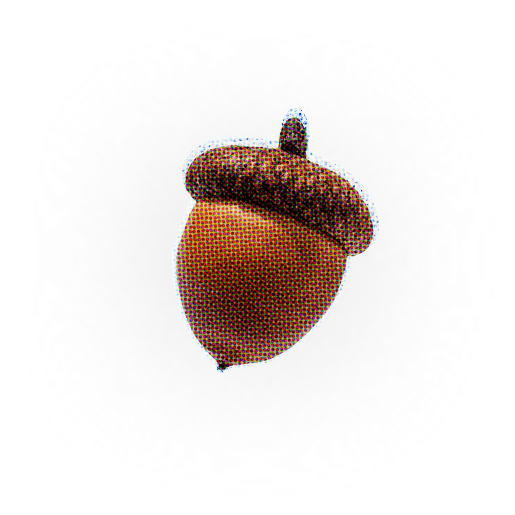
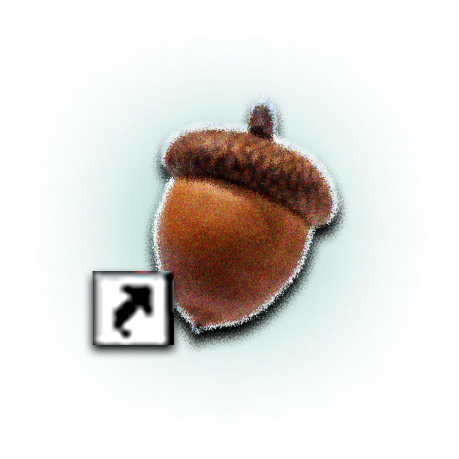
buttons n stars

Changed region(s): [[0.183, 0.2135, 0.7625, 0.793]]

diff --git a/src/components/Hero.tsx b/src/components/Hero.tsx
@@ -1,10 +1,65 @@
+"use client";
 import Image from "next/image";
+import { useEffect, useRef, useState } from "react";
+
+function SpinningStar({ src, alt, width, height, className }: {
+  src: string; alt: string; width: number; height: number; className?: string;
+}) {
+  const [rotation, setRotation] = useState(0);
+  const velocityRef = useRef(0);
+  const lastMouseRef = useRef<{ x: number; y: number } | null>(null);
+  const rafRef = useRef<number | null>(null);
+
+  useEffect(() => {
+    const handleMouseMove = (e: MouseEvent) => {
+      if (lastMouseRef.current) {
+        const dx = e.clientX - lastMouseRef.current.x;
+        const dy = e.clientY - lastMouseRef.current.y;
+        const speed = Math.sqrt(dx * dx + dy * dy);
+        const direction = dx > 0 ? 1 : -1;
+        velocityRef.current = direction * speed * 0.5;
+      }
+      lastMouseRef.current = { x: e.clientX, y: e.clientY };
+    };
+
+    window.addEventListener("mousemove", handleMouseMove);
+    return () => window.removeEventListener("mousemove", handleMouseMove);
+  }, []);
+
+  useEffect(() => {
+    const animate = () => {
+      velocityRef.current *= 0.95; // friction
+      setRotation(r => r + velocityRef.current);
+      rafRef.current = requestAnimationFrame(animate);
+    };
+    rafRef.current = requestAnimationFrame(animate);
+    return () => { if (rafRef.current) cancelAnimationFrame(rafRef.current); };
+  }, []);
+
+  return (
+    <Image
+      src={src}
+      alt={alt}
+      width={width}
+      height={height}
+      className={className}
+      style={{ transform: `rotate(${rotation}deg)` }}
+    />
+  );
+}
+const desktopIcons = [
+  { src: "/images/acorn.png", label: "Greenhouse", href: "#" },
+  { src: "/images/bfly.png", label: "Archive", href: "#" },
+  { src: "/images/flower.png", label: "Events", href: "#" },
+  { src: "/images/heart.png", label: "Ministry", href: "#" },
+  { src: "/images/key.png", label: "Join Us", href: "#" },
+];
 
 export default function Hero() {
   return (
     <section className="relative w-full min-h-[858px] bg-[var(--color-bg2)]">
 
-      {/* LAYER 1: HERO BORDER - base background */}
+      {/* LAYER 1: HERO BORDER */}
       <Image
         src="/images/hero border.png"
         alt="greenhaus"
@@ -13,35 +68,60 @@ export default function Hero() {
         priority
       />
       <Image
-          src="/images/botanical playground.png"
-          alt="playground"
-          width={328}
-          height={46}
-          className="absolute bottom-15 right-10 z-10"
-        />
-        <Image
-          src="/images/snail.png"
-          alt="snail"
-          width={0}
-          height={0}
-          sizes="100vw"
-          className="w-auto h-auto absolute bottom-1 right-1 z-10"
-        />
+        src="/images/botanical playground.png"
+        alt="playground"
+        width={328}
+        height={46}
+        className="absolute bottom-15 right-10 z-10"
+      />
+      <Image
+        src="/images/snail.png"
+        alt="snail"
+        width={0}
+        height={0}
+        sizes="100vw"
+        className="w-auto h-auto absolute bottom-1 right-1 z-10"
+      />
 
       {/* LAYER 2: CENTERED CONTENT STACK */}
       <div className="relative z-10 flex flex-col items-center justify-center min-h-[871px] gap-2">
-        
+
         {/* TEXT + STARS OVERLAY GROUP */}
         <div className="relative flex items-center justify-center">
           <Image
-            src="/images/hero text + stars.png"
+            src="/images/hero text w texture.png"
             alt="Welcome"
             width={661.13}
             height={307.47}
-            
             priority
           />
-          
+
+          {/* GREEN STAR - left of text */}
+          <SpinningStar
+            src="/images/star g.png"
+            alt="green star"
+            width={80}
+            height={80}
+            className="absolute -left-25 top-1/2 -translate-y-1/2"
+          />
+
+          {/* PINK STAR - upper right */}
+          <SpinningStar
+            src="/images/star p.png"
+            alt="pink star"
+            width={100}
+            height={100}
+            className="absolute right-[180px] -top-16"
+          />
+
+          {/* YELLOW STAR - upper right, above pink */}
+          <SpinningStar
+            src="/images/star y.png"
+            alt="yellow star"
+            width={80}
+            height={80}
+            className="absolute -right-8 -top-2"
+          />
         </div>
 
         <Image
@@ -50,29 +130,36 @@ export default function Hero() {
           width={300}
           height={41}
         />
-
       </div>
 
-      {/* LAYER 3: ACORN SHORTCUT - absolute positioned */}
-      <div className="absolute z-20 left-[24px] top-[160px] md:left-[157px] md:top-[441px]">
-        <Image
-          src="/images/acorn.png"
-          alt="Acorn"
-          width={178}
-          height={212}
-          className="opacity-90"
-        />
-        <Image
-          src="/images/w95arrow.png"
-          alt="Arrow"
-          width={30}
-          height={28}
-          className="absolute bottom-11 left-9 translate-x-[10%] -translate-y-[10%]"
-        />
-        
+     {/* LAYER 3: DESKTOP ICONS - vertical left column */}
+      <div className="absolute z-20 left-[24px] top-[160px] md:left-[60px] md:top-[70px] flex flex-col gap-6">
+        {desktopIcons.map((icon) => (
+          <a
+            key={icon.label}
+  href={icon.href}
+  className="flex flex-col items-center gap-0 w-[80px] cursor-pointer hover:brightness-130 hover:contrast-120 active:brightness-75 active:scale-95 transition-all"
+>
+<div className="relative w-[120px] h-[120px]">
+  <Image
+    src={icon.src}
+    alt={icon.label}
+    fill
+    className="object-contain drop-shadow-lg"
+  />
+
+              
+            </div>
+            <span className="windows-font text-[16px] text-center text-[var(--color-text-main)] leading-tight px-1 -mt-5"
+              style={{ textShadow: "1px 1px 2px black" }}>
+              {icon.label}
+            </span>
+          </a>
+        ))}
       </div>
 
-      {/* LAYER 4: LOGO - fixed to viewport */}
+
+      {/* LAYER 4: LOGO */}
       <Image
         src="/images/logo.png"
         alt="Logo"

diff --git a/src/components/WantMore.tsx b/src/components/WantMore.tsx
@@ -21,7 +21,7 @@ export default function WantMore() {
       href={btn.href}
       target="_blank"
       rel="noopener noreferrer"
-      className="flex flex-col items-center gap-1 hover:scale-105 transition-transform cursor-pointer"
+      className="flex flex-col items-center gap-1 hover:scale-105 hover:brightness-130 hover:contrast-120 active:brightness-75 active:scale-95 transition-all cursor-pointer"
     >
       <Image src={btn.img} alt={btn.label} width={0} height={0} sizes="100vw" className="w-auto h-[200px] object-contain" />
       <span className="windows-font text-[25px] text-[#6BC914]">{btn.label}</span>

diff --git a/src/app/layout.tsx b/src/app/layout.tsx
@@ -23,8 +23,11 @@ const geistMono = Geist_Mono({
 });
 
 export const metadata: Metadata = {
-  title: "Create Next App",
-  description: "Generated by create next app",
+  title: "UCLA Botanical Club",
+  description: "UCLA Botanical Club",
+  icons: {
+    icon: "/images/logo.png",
+  },
 };
 
 export default function RootLayout({
